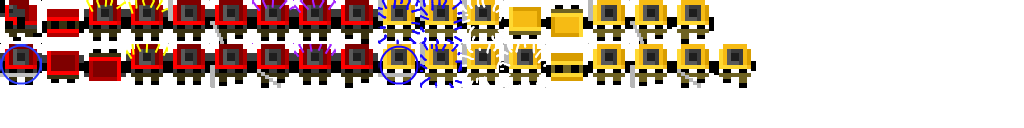
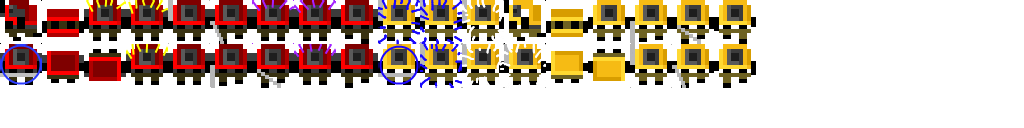
Apply damage from enemy attacks; Added player death animation.

Changed region(s): [[0.4688, 0.0, 0.75, 0.6875]]

diff --git a/core/src/main/java/com/genericgames/samurai/ai/performers/attack/LightAttackAIActionPerformer.java b/core/src/main/java/com/genericgames/samurai/ai/performers/attack/LightAttackAIActionPerformer.java
@@ -3,8 +3,11 @@ package com.genericgames.samurai.ai.performers.attack;
 import com.badlogic.gdx.physics.box2d.World;
 import com.genericgames.samurai.combat.Attack;
 import com.genericgames.samurai.combat.AttackHelper;
+import com.genericgames.samurai.combat.CombatHelper;
 import com.genericgames.samurai.combat.TelegraphedAttack;
 import com.genericgames.samurai.exception.AttackNotFoundException;
+import com.genericgames.samurai.model.PlayerCharacter;
+import com.genericgames.samurai.model.SamuraiWorld;
 import com.genericgames.samurai.model.movable.State;
 import com.genericgames.samurai.model.movable.living.ai.AI;
 import com.genericgames.samurai.model.movable.living.ai.ActionState;
@@ -39,14 +42,15 @@ public class LightAttackAIActionPerformer extends AttackAIActionPerformer {
     }
 
     @Override
-    public void performAction(World physicalWorld) {
-        super.performAction(physicalWorld);
+    public void performAction(SamuraiWorld samuraiWorld) {
+        super.performAction(samuraiWorld);
 
         AI performer = getPerformer();
         MovementVector movementVector =
                 PhysicalWorldHelper.getMovementVectorFor(performer);
         try {
             Attack attack = AttackHelper.getMatchingAttack(State.HEAVY_ATTACKING, performer);
+            World physicalWorld = samuraiWorld.getPhysicalWorld();
             if(attack instanceof TelegraphedAttack &&
                     getActionFrame()<((TelegraphedAttack)attack).getTelegraphDuration()){
                 movementVector.stop();
@@ -56,7 +60,10 @@ public class LightAttackAIActionPerformer extends AttackAIActionPerformer {
                 movementVector.getLightAttackVector(performer.getSpeed());
                 performer.setState(State.LIGHT_ATTACKING);
                 if(getActionFrame()==attack.getInflictionFrame()){
-                    //TODO applyDamage
+                    PlayerCharacter playerCharacter = samuraiWorld.getPlayerCharacter();
+                    if(CombatHelper.getAttackedObjects(performer, physicalWorld).contains(playerCharacter)){
+                        playerCharacter.damage(CombatHelper.getApplicableDamage(performer, playerCharacter));
+                    }
                 }
             }
             else{

diff --git a/core/src/main/java/com/genericgames/samurai/ai/performers/attack/HeavyAttackAIActionPerformer.java b/core/src/main/java/com/genericgames/samurai/ai/performers/attack/HeavyAttackAIActionPerformer.java
@@ -3,7 +3,10 @@ package com.genericgames.samurai.ai.performers.attack;
 import com.badlogic.gdx.physics.box2d.World;
 import com.genericgames.samurai.combat.Attack;
 import com.genericgames.samurai.combat.AttackHelper;
+import com.genericgames.samurai.combat.CombatHelper;
 import com.genericgames.samurai.exception.AttackNotFoundException;
+import com.genericgames.samurai.model.PlayerCharacter;
+import com.genericgames.samurai.model.SamuraiWorld;
 import com.genericgames.samurai.model.movable.State;
 import com.genericgames.samurai.model.movable.living.ai.AI;
 import com.genericgames.samurai.model.movable.living.ai.ActionState;
@@ -38,14 +41,15 @@ public class HeavyAttackAIActionPerformer extends AttackAIActionPerformer {
     }
 
     @Override
-    public void performAction(World physicalWorld) {
-        super.performAction(physicalWorld);
+    public void performAction(SamuraiWorld samuraiWorld) {
+        super.performAction(samuraiWorld);
 
         AI performer = getPerformer();
         MovementVector movementVector =
                 PhysicalWorldHelper.getMovementVectorFor(performer);
         try {
             Attack attack = AttackHelper.getMatchingAttack(State.HEAVY_ATTACKING, performer);
+            World physicalWorld = samuraiWorld.getPhysicalWorld();
             if(AttackHelper.isTelegraphing(performer, attack)){
                 movementVector.stop();
                 performer.setState(State.TELEGRAPHING_HEAVY_ATTACK);
@@ -54,7 +58,10 @@ public class HeavyAttackAIActionPerformer extends AttackAIActionPerformer {
                 movementVector.getHeavyAttackVector(performer.getSpeed());
                 performer.setState(State.HEAVY_ATTACKING);
                 if(getActionFrame()==attack.getInflictionFrame()){
-                    //TODO applyDamage
+                    PlayerCharacter playerCharacter = samuraiWorld.getPlayerCharacter();
+                    if(CombatHelper.getAttackedObjects(performer, physicalWorld).contains(playerCharacter)){
+                        playerCharacter.damage(CombatHelper.getApplicableDamage(performer, playerCharacter));
+                    }
                 }
             }
             else if(AttackHelper.isRecovering(performer, attack)){

diff --git a/core/src/main/java/com/genericgames/samurai/ai/performers/AIActionPerformer.java b/core/src/main/java/com/genericgames/samurai/ai/performers/AIActionPerformer.java
@@ -1,6 +1,6 @@
 package com.genericgames.samurai.ai.performers;
 
-import com.badlogic.gdx.physics.box2d.World;
+import com.genericgames.samurai.model.SamuraiWorld;
 import com.genericgames.samurai.model.movable.living.ai.AI;
 import com.genericgames.samurai.model.movable.living.ai.ActionState;
 
@@ -8,19 +8,12 @@ public abstract class AIActionPerformer {
 
     private AI performer;
 
-    public int getActionFrame() {
-        return actionFrame;
-    }
-
-    public void setActionFrame(int actionFrame) {
-        this.actionFrame = actionFrame;
-    }
-
     private int actionFrame = 0;
 
     public AIActionPerformer(AI performer){
         this.performer = performer;
         performer.setAIActionPerformer(this);
+        performer.setStateTime(0);
     }
 
     public AI getPerformer() {
@@ -31,11 +24,20 @@ public abstract class AIActionPerformer {
         this.performer = performer;
     }
 
+    public int getActionFrame() {
+        return actionFrame;
+    }
+
+    public void setActionFrame(int actionFrame) {
+        this.actionFrame = actionFrame;
+    }
+
     public abstract ActionState getActionState();
 
     public abstract int getDuration();
 
-    public void performAction(World physicalWorld){
+    public void performAction(SamuraiWorld samuraiWorld){
+        performer.incrementStateTime();
         iterateActionFrame();
     }
 

diff --git a/core/src/main/java/com/genericgames/samurai/ai/performers/dodge/DodgeRightAIActionPerformer.java b/core/src/main/java/com/genericgames/samurai/ai/performers/dodge/DodgeRightAIActionPerformer.java
@@ -1,6 +1,6 @@
 package com.genericgames.samurai.ai.performers.dodge;
 
-import com.badlogic.gdx.physics.box2d.World;
+import com.genericgames.samurai.model.SamuraiWorld;
 import com.genericgames.samurai.model.movable.living.ai.AI;
 import com.genericgames.samurai.model.movable.living.ai.ActionState;
 import com.genericgames.samurai.physics.PhysicalWorldHelper;
@@ -17,14 +17,14 @@ public class DodgeRightAIActionPerformer extends DodgeAIActionPerformer {
     }
 
     @Override
-    public void performAction(World physicalWorld) {
-        super.performAction(physicalWorld);
+    public void performAction(SamuraiWorld samuraiWorld) {
+        super.performAction(samuraiWorld);
 
         AI performer = getPerformer();
         MovementVector movementVector =
                 PhysicalWorldHelper.getMovementVectorFor(performer);
 
         movementVector.rightMovement(performer.getSpeed());
-        performDodge(getPerformer(), movementVector.getDodgeVector(performer.getSpeed()), physicalWorld);
+        performDodge(getPerformer(), movementVector.getDodgeVector(performer.getSpeed()), samuraiWorld.getPhysicalWorld());
     }
 }

diff --git a/core/src/main/java/com/genericgames/samurai/ai/performers/dodge/DodgeLeftAIActionPerformer.java b/core/src/main/java/com/genericgames/samurai/ai/performers/dodge/DodgeLeftAIActionPerformer.java
@@ -1,6 +1,6 @@
 package com.genericgames.samurai.ai.performers.dodge;
 
-import com.badlogic.gdx.physics.box2d.World;
+import com.genericgames.samurai.model.SamuraiWorld;
 import com.genericgames.samurai.model.movable.living.ai.AI;
 import com.genericgames.samurai.model.movable.living.ai.ActionState;
 import com.genericgames.samurai.physics.PhysicalWorldHelper;
@@ -18,14 +18,14 @@ public class DodgeLeftAIActionPerformer extends DodgeAIActionPerformer {
     }
 
     @Override
-    public void performAction(World physicalWorld) {
-        super.performAction(physicalWorld);
+    public void performAction(SamuraiWorld samuraiWorld) {
+        super.performAction(samuraiWorld);
 
         AI performer = getPerformer();
         MovementVector movementVector =
                 PhysicalWorldHelper.getMovementVectorFor(performer);
 
         movementVector.leftMovement(performer.getSpeed());
-        performDodge(getPerformer(), movementVector.getDodgeVector(performer.getSpeed()), physicalWorld);
+        performDodge(getPerformer(), movementVector.getDodgeVector(performer.getSpeed()), samuraiWorld.getPhysicalWorld());
     }
 }

diff --git a/core/src/main/java/com/genericgames/samurai/ai/performers/BlockAIActionPerformer.java b/core/src/main/java/com/genericgames/samurai/ai/performers/BlockAIActionPerformer.java
@@ -1,6 +1,6 @@
 package com.genericgames.samurai.ai.performers;
 
-import com.badlogic.gdx.physics.box2d.World;
+import com.genericgames.samurai.model.SamuraiWorld;
 import com.genericgames.samurai.model.movable.State;
 import com.genericgames.samurai.model.movable.living.ai.AI;
 import com.genericgames.samurai.model.movable.living.ai.ActionState;
@@ -25,14 +25,14 @@ public class BlockAIActionPerformer extends AIActionPerformer {
     }
 
     @Override
-    public void performAction(World physicalWorld) {
-        super.performAction(physicalWorld);
+    public void performAction(SamuraiWorld samuraiWorld) {
+        super.performAction(samuraiWorld);
 
         AI performer = getPerformer();
         MovementVector movementVector =
                 PhysicalWorldHelper.getMovementVectorFor(performer);
         movementVector.stop();
-        PhysicalWorldHelper.moveBody(physicalWorld, performer,
+        PhysicalWorldHelper.moveBody(samuraiWorld.getPhysicalWorld(), performer,
                 performer.getRotation(), movementVector);
 
         getPerformer().setState(State.BLOCKING);

diff --git a/core/src/main/java/com/genericgames/samurai/ai/performers/IdleAIActionPerformer.java b/core/src/main/java/com/genericgames/samurai/ai/performers/IdleAIActionPerformer.java
@@ -1,6 +1,6 @@
 package com.genericgames.samurai.ai.performers;
 
-import com.badlogic.gdx.physics.box2d.World;
+import com.genericgames.samurai.model.SamuraiWorld;
 import com.genericgames.samurai.model.movable.State;
 import com.genericgames.samurai.model.movable.living.ai.AI;
 import com.genericgames.samurai.model.movable.living.ai.ActionState;
@@ -25,14 +25,14 @@ public class IdleAIActionPerformer extends AIActionPerformer {
     }
 
     @Override
-    public void performAction(World physicalWorld) {
-        super.performAction(physicalWorld);
+    public void performAction(SamuraiWorld samuraiWorld) {
+        super.performAction(samuraiWorld);
 
         AI performer = getPerformer();
         MovementVector movementVector =
                 PhysicalWorldHelper.getMovementVectorFor(performer);
         movementVector.stop();
-        PhysicalWorldHelper.moveBody(physicalWorld, performer,
+        PhysicalWorldHelper.moveBody(samuraiWorld.getPhysicalWorld(), performer,
                 performer.getRotation(), movementVector);
 
         getPerformer().setState(State.IDLE);

diff --git a/core/src/main/java/com/genericgames/samurai/ai/performers/walk/WalkBackwardsAIActionPerformer.java b/core/src/main/java/com/genericgames/samurai/ai/performers/walk/WalkBackwardsAIActionPerformer.java
@@ -1,6 +1,6 @@
 package com.genericgames.samurai.ai.performers.walk;
 
-import com.badlogic.gdx.physics.box2d.World;
+import com.genericgames.samurai.model.SamuraiWorld;
 import com.genericgames.samurai.model.movable.living.ai.AI;
 import com.genericgames.samurai.model.movable.living.ai.ActionState;
 import com.genericgames.samurai.physics.PhysicalWorldHelper;
@@ -17,8 +17,8 @@ public class WalkBackwardsAIActionPerformer extends WalkAIActionPerformer {
     }
 
     @Override
-    public void performAction(World physicalWorld){
-        super.performAction(physicalWorld);
+    public void performAction(SamuraiWorld samuraiWorld){
+        super.performAction(samuraiWorld);
 
         AI performer = getPerformer();
         MovementVector movementVector =
@@ -26,6 +26,6 @@ public class WalkBackwardsAIActionPerformer extends WalkAIActionPerformer {
 
         movementVector.backwardMovement(performer.getSpeed());
 
-        performWalk(performer, movementVector, physicalWorld);
+        performWalk(performer, movementVector, samuraiWorld.getPhysicalWorld());
     }
 }

diff --git a/core/src/main/java/com/genericgames/samurai/ai/performers/walk/WalkForwardAIActionPerformer.java b/core/src/main/java/com/genericgames/samurai/ai/performers/walk/WalkForwardAIActionPerformer.java
@@ -1,6 +1,6 @@
 package com.genericgames.samurai.ai.performers.walk;
 
-import com.badlogic.gdx.physics.box2d.World;
+import com.genericgames.samurai.model.SamuraiWorld;
 import com.genericgames.samurai.model.movable.living.ai.AI;
 import com.genericgames.samurai.model.movable.living.ai.ActionState;
 import com.genericgames.samurai.physics.PhysicalWorldHelper;
@@ -18,8 +18,8 @@ public class WalkForwardAIActionPerformer extends WalkAIActionPerformer {
     }
 
     @Override
-    public void performAction(World physicalWorld){
-        super.performAction(physicalWorld);
+    public void performAction(SamuraiWorld samuraiWorld){
+        super.performAction(samuraiWorld);
 
         AI performer = getPerformer();
         MovementVector movementVector =
@@ -27,6 +27,6 @@ public class WalkForwardAIActionPerformer extends WalkAIActionPerformer {
 
         movementVector.forwardMovement(performer.getSpeed());
 
-        performWalk(performer, movementVector, physicalWorld);
+        performWalk(performer, movementVector, samuraiWorld.getPhysicalWorld());
     }
 }

diff --git a/core/src/main/java/com/genericgames/samurai/ai/performers/walk/WalkRightAIActionPerformer.java b/core/src/main/java/com/genericgames/samurai/ai/performers/walk/WalkRightAIActionPerformer.java
@@ -1,6 +1,6 @@
 package com.genericgames.samurai.ai.performers.walk;
 
-import com.badlogic.gdx.physics.box2d.World;
+import com.genericgames.samurai.model.SamuraiWorld;
 import com.genericgames.samurai.model.movable.living.ai.AI;
 import com.genericgames.samurai.model.movable.living.ai.ActionState;
 import com.genericgames.samurai.physics.PhysicalWorldHelper;
@@ -18,8 +18,8 @@ public class WalkRightAIActionPerformer extends WalkAIActionPerformer {
     }
 
     @Override
-    public void performAction(World physicalWorld){
-        super.performAction(physicalWorld);
+    public void performAction(SamuraiWorld samuraiWorld){
+        super.performAction(samuraiWorld);
 
         AI performer = getPerformer();
         MovementVector movementVector =
@@ -27,6 +27,6 @@ public class WalkRightAIActionPerformer extends WalkAIActionPerformer {
 
         movementVector.rightMovement(performer.getSpeed());
 
-        performWalk(performer, movementVector, physicalWorld);
+        performWalk(performer, movementVector, samuraiWorld.getPhysicalWorld());
     }
 }

diff --git a/core/src/main/java/com/genericgames/samurai/ai/performers/walk/WalkLeftAIActionPerformer.java b/core/src/main/java/com/genericgames/samurai/ai/performers/walk/WalkLeftAIActionPerformer.java
@@ -1,6 +1,6 @@
 package com.genericgames.samurai.ai.performers.walk;
 
-import com.badlogic.gdx.physics.box2d.World;
+import com.genericgames.samurai.model.SamuraiWorld;
 import com.genericgames.samurai.model.movable.living.ai.AI;
 import com.genericgames.samurai.model.movable.living.ai.ActionState;
 import com.genericgames.samurai.physics.PhysicalWorldHelper;
@@ -17,8 +17,8 @@ public class WalkLeftAIActionPerformer extends WalkAIActionPerformer {
     }
 
     @Override
-    public void performAction(World physicalWorld){
-        super.performAction(physicalWorld);
+    public void performAction(SamuraiWorld samuraiWorld){
+        super.performAction(samuraiWorld);
 
         AI performer = getPerformer();
         MovementVector movementVector =
@@ -26,6 +26,6 @@ public class WalkLeftAIActionPerformer extends WalkAIActionPerformer {
 
         movementVector.leftMovement(performer.getSpeed());
 
-        performWalk(performer, movementVector, physicalWorld);
+        performWalk(performer, movementVector, samuraiWorld.getPhysicalWorld());
     }
 }

diff --git a/core/src/main/java/com/genericgames/samurai/utility/ImageCache.java b/core/src/main/java/com/genericgames/samurai/utility/ImageCache.java
@@ -56,6 +56,7 @@ public class ImageCache {
         loadChargingAnimation(atlas);
         loadChargedAnimation(atlas);
         loadDodgeAnimation(atlas);
+        loadDeadAnimation(atlas);
 
         animations.put(Enemy.class, new HashMap<State, Animation>());
         loadEnemy1IdleAnimation(atlas);
@@ -134,6 +135,14 @@ public class ImageCache {
             walkFrames[i] = atlas.findRegion("samurai-walk-0" + (i+1));
         }
         animations.get(PlayerCharacter.class).put(State.WALKING, new Animation(RUNNING_FRAME_DURATION, walkFrames));
+    }
+
+    private static void loadDeadAnimation(TextureAtlas atlas) {
+        TextureRegion[] deadFrames = new TextureRegion[NUM_DEAD_FRAMES];
+        for (int i = 0; i < NUM_DEAD_FRAMES; i++) {
+            deadFrames[i] = atlas.findRegion("samurai-dead-0" + (i+1));
+        }
+        animations.get(PlayerCharacter.class).put(State.DEAD, new Animation(DEAD_FRAME_DURATION, deadFrames));
     }
 
     private static void loadEnemy1IdleAnimation(TextureAtlas atlas) {
